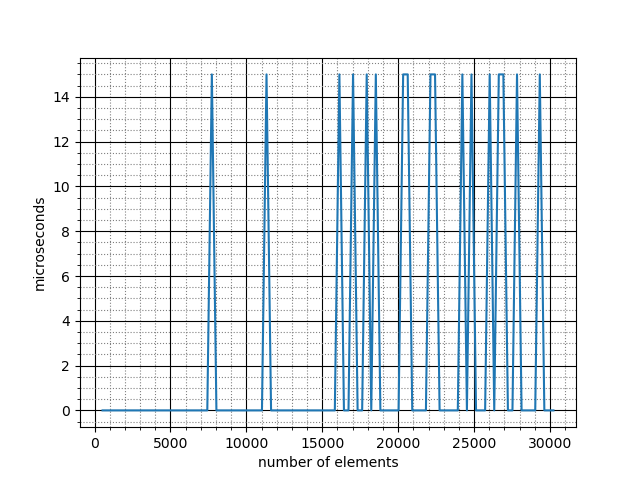
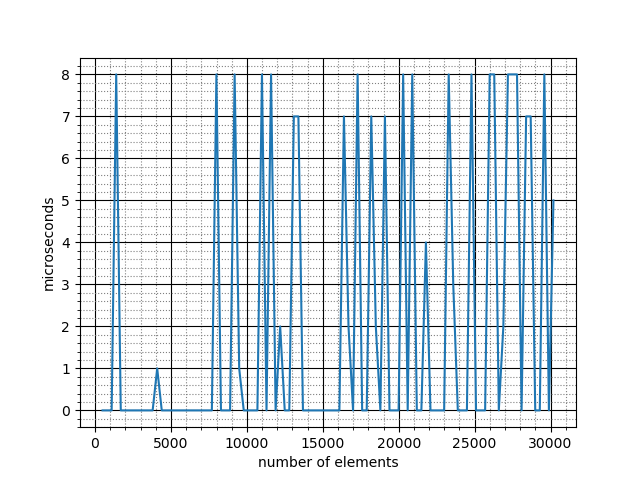
Add files via upload

Changed region(s): [[0.0312, 0.125, 0.9062, 0.9375]]

diff --git a/pir_sort.c b/pir_sort.c
@@ -1,4 +1,3 @@
-
 #include <stdio.h>
 #include <stdlib.h>
 #include <time.h>
@@ -25,43 +24,40 @@ long time_stop(){
 
 	return dtv.tv_sec*1000+dtv.tv_usec/1000;
 }
-/*
-double pow(double x, double y){
-	double result = 1;
-	for(int i = 0; i<y; i++){
-		result*=x;
-	}
-	return result;
-}*/
 
-void sort(int *a, int n){
-	int count = 1;
-	int i = 1;
-	int * m = malloc(sizeof(int)*count);
-	m[count-1] = i;
-	while(3*i <= n){
-		count++;
-		if(count%2==0){
-			i = 9*pow(2, count)-9*pow(2, count/2)+1;
-		} else {
-			i = 8*pow(2, count)-6*pow(2, count/2)+1;
+void tree(int * a, int n, int i){
+	int tmp;
+	if(2*i+2<n){
+		if(a[i]>a[2*i+1]){
+			tmp = a[i];
+			a[i] = a[2*i+1];
+			a[2*i+1] = tmp;
 		}
-		m = realloc(m, sizeof(int)*count*2);
-		if(m)
-			m[count-1] = i;
-		else
-			printf("realloc error");
+		if(a[i]>a[2*i+2]){
+			tmp = a[i];
+			a[i] = a[2*i+2];
+			a[2*i+2] = tmp;
+		}
+		tree(a, n, 2*i+1);
+		tree(a, n, 2*i+2);
+	} else if(2*i+1<n){
+		if(a[i]>a[2*i+1]){
+			tmp = a[i];
+			a[i] = a[2*i+1];
+			a[2*i+1] = tmp;
+		}
 	}
-	for(int i = count-1; i>=0; i--){
-    	for(int j = m[i]; j<n; j++){
-        	for(int k = j-m[i]; (k>=0)&&(a[k]>a[k+m[i]]); k-=m[i]){
-	            int tmp = a[k];
-	            a[k] = a[k+m[i]];
-				a[k+m[i]] = tmp;
-        	}
-        }
-    }
-    free(m);
+}
+
+void sort(int*a, int n) {
+	for (int i = n/2; i >= 0; i--){
+		//for (int l= n/2-1- i/2; l >=0; l--){
+			tree(a, n, i);
+		//}
+	}
+	if(n!=0){
+		sort(&a[1], n-1);
+	}
 }
 
 int main(int argc, char * argv[]){

diff --git a/script.py b/script.py
@@ -1,0 +1,52 @@
+import subprocess
+from subprocess import PIPE
+import random
+
+
+def check_results(a):
+    for l in range(len(a)-2):
+        if a[l] > a[l+1]:
+            return 'false'
+    return 'true'
+
+
+f = input('enter the name of the program: ')
+subprocess.run("gcc -o ../" + f + ".exe ../" + f + ".c")
+
+i = 1
+i = random.randint(i, 300+i)
+
+for m in range(1, 101):
+
+    if m < 10:
+        inp_t = '../input/input00'+str(m)+'.txt'
+        inp = open(inp_t, 'w+')
+        out = open('../output/output00'+str(m)+'.txt', 'w')
+    elif m < 100:
+        inp_t = '../input/input0'+str(m)+'.txt'
+        inp = open(inp_t, 'w+')
+        out = open('../output/output0'+str(m)+'.txt', 'w')
+    else:
+        inp_t = '../input/input100.txt'
+        inp = open(inp_t, 'w+')
+        out = open('../output/output100.txt', 'w')
+
+    i += 300
+    inp.write(str(i)+'\n')
+
+    for k in range(i):
+        n = str(random.randint(1, 100))
+        inp.write(n+' ')
+
+    inp.close()
+
+    cmd = subprocess.Popen("../" + f + ".exe " + inp_t, stdout=PIPE)
+    print(m)
+    cmd_out, cmd_err = cmd.communicate()
+
+    to_file = cmd_out.decode("utf-8")
+
+    checking = [int(item) for item in to_file.split()]
+    out.write(str(i)+'\n'+to_file+'\n'+check_results(checking))
+
+    out.close()

diff --git a/time_graph.py b/time_graph.py
@@ -1,0 +1,32 @@
+import matplotlib.pyplot as plt
+import matplotlib.ticker as ticker
+
+fig = plt.figure()
+graph = fig.add_subplot(111)
+x = []
+y = []
+
+for m in range(1, 101):
+
+    if m < 10:
+        out = open('../output/output00'+str(m)+'.txt', 'r')
+    elif m < 100:
+        out = open('../output/output0'+str(m)+'.txt', 'r')
+    else:
+        out = open('../output/output100.txt', 'r')
+
+    input_argv = out.read().splitlines()
+
+    x.append(int(input_argv[0]))
+    y.append(int(input_argv[1]))
+    out.close()
+
+f = input('enter the name of the file: ')
+
+graph.plot(x, y)
+graph.grid(which='major', color='k')
+graph.minorticks_on()
+graph.grid(which='minor', color='gray', linestyle=':')
+graph.set_xlabel('number of elements')
+graph.set_ylabel('microseconds')
+fig.savefig("../" + f + '.png')

diff --git a/quick_sort.c b/quick_sort.c
@@ -71,10 +71,10 @@ int main(int argc, char * argv[]) {
     time_start();
     sort(a, low, high);
     
+    printf("%ld\r", time_stop());
     for(int i = 0; i<n; i++){
         printf("%d ", a[i]);
     }
-    printf("\n%ld", time_stop());
     free(a);
     return 0;
 }
